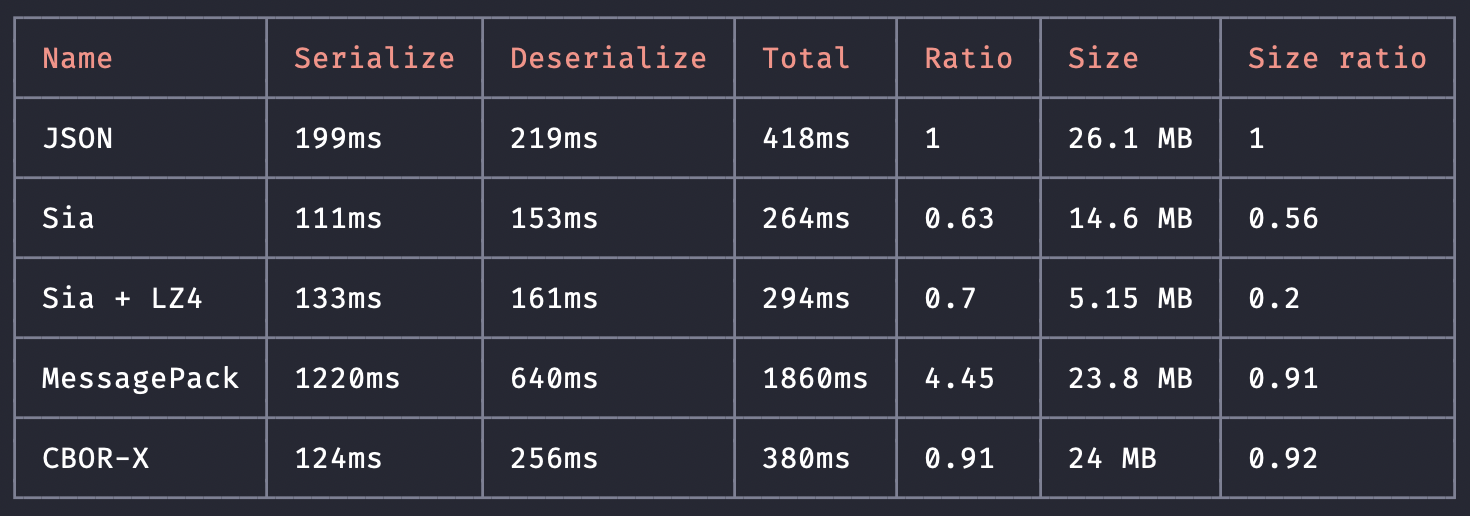
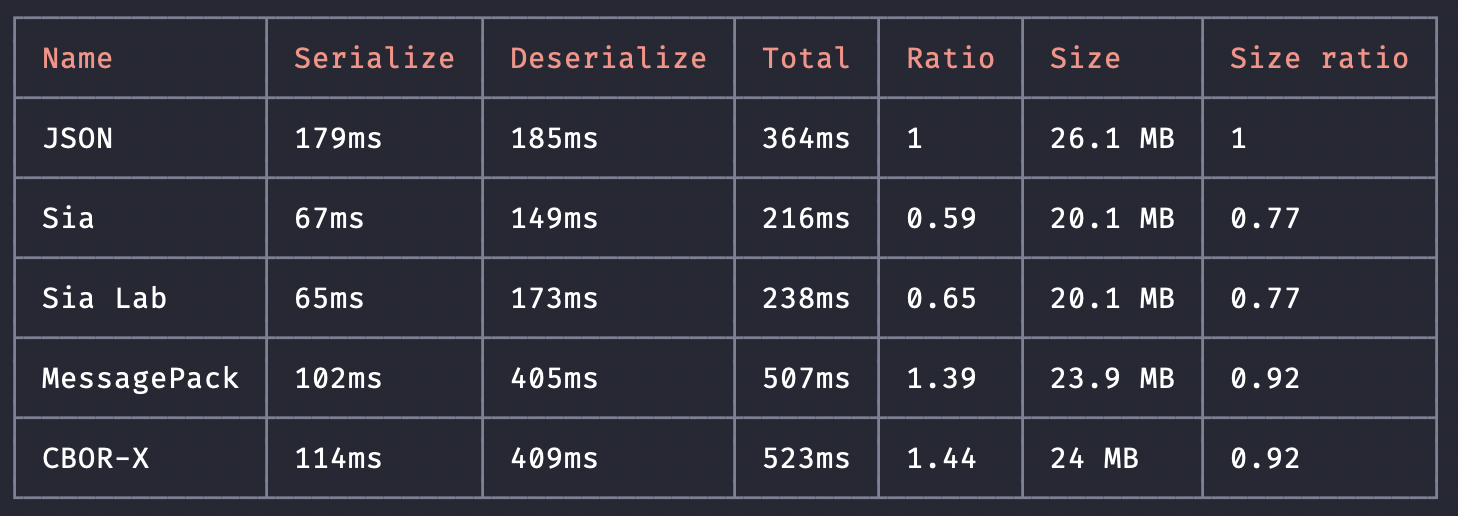
Added docs

diff --git a/README.md b/README.md
@@ -6,6 +6,10 @@
 Sia - Binary serialisation and deserialisation with built-in compression. You can consider Sia a strongly typed,
 statically typed domain specific binary language for constructing data. Sia preserves data types and supports custom ones.
 
+Please note the Sia specification and implementation isn't final yet. As a core part of
+[Clio programming language](https://github.com/clio-lang/clio), Sia evolves with Clio. It is made to make
+fast RPC calls possible.
+
 ## Why
 
 I needed a fast schema-less serialization library that preserves type info and is able to code/decode custom types.
@@ -14,9 +18,10 @@ I created my own.
 
 ## Performance
 
-This repository contains a pure JS implementation of Sia, on our test data we are 30% to 40% faster than JSON
-and serialized data (including type information for all entries) is 50% to 80% smaller than JSON. Sia is faster
-and smaller than MessagePack and CBOR/CBOR-X.
+This repository contains a pure JS implementation of Sia, on our test data Sia is 66% to 1250% faster than JSON
+and serialized data (including type information for all entries) is 10% to 30% smaller than JSON. Sia is faster
+and smaller than MessagePack and CBOR/CBOR-X. It is possible to use lz4 to compress Sia generated data even more
+and still be faster than JSON, MessagePack and CBOR-X.
 
 ![Sia](./fast.png)
 
@@ -33,7 +38,7 @@ Read [specs.md](specs.md).
 To install the Node library and save it as a dependency, do:
 
 ```bash
-npm i -S sia-serializer
+npm i -S sializer
 ```
 
 ## Documentation
@@ -51,3 +56,89 @@ const { sia, desia, Sia, DeSia, constructors } = require("sia-serializer");
 - `Sia(options)` class makes an instance of Sia serializer using the given options.
 - `DeSia(options)` class makes an instance of Sia deserializer using the given options.
 - `constructors` is an array of default constructors used both by Sia and DeSia.
+
+The `Sia` and `DeSia` objects are the core components of the Sia library.
+
+### Basic usage
+
+```JavaScript
+const { sia, desia } = require("sializer");
+
+const buf = sia(data);
+const result = desia(buf);
+```
+
+### Sia class
+
+```JavaScript
+const sia = New Sia({
+  size = 33554432, // Buffer size to use
+  constructors = builtinConstructors // An array of extra classes and types
+});
+
+const buf = sia.serialize(data);
+```
+
+Where `size` is the maximum size of buffer to use, use a big size if you're expecting to
+serialize huge objects. The `constructors` option is an array of extra types and classes,
+it includes instructions for serializing the custom types and classes.
+
+### DeSia class
+
+```JavaScript
+const desia = new DeSia({
+  mapSize = 256 * 1000, // String map size
+  constructors = builtinConstructors, // An array of extra classes and types
+});
+
+const data = desia.deserialize(buf);
+```
+
+Where `mapSize` is the minimum size of string map array to use, use a big size if you're
+expecting to serialize huge objects. The `constructors` option is an array of extra types
+and classes, it includes instructions for deserializing the custom types and classes.
+
+### sia function
+
+```JavaScript
+const buf = sia(data);
+```
+
+The `sia` function is the `Sia.serialize` method on an instance initialized with the default options.
+
+### desia function
+
+```JavaScript
+const data = desia(buf);
+```
+
+The `desia` function is the `DeSia.deserialize` method on an instance initialized with the default options.
+
+### constructors
+
+The `constructors` option is an array of extra types and classes that Sia should support.
+Here's an example of how to use it:
+
+```JavaScript
+const { Sia, DeSia } = require("sializer");
+const { constructors: builtins } = require("sializer");
+
+const constructors = [
+  ...builtins,
+  {
+    constructor: RegExp, // The custom class you want to support
+    code: 7, // A unique positive code point for this class, the smaller the better
+    args: (item) => [item.source, item.flags], // A function to serialize the instances of the class
+    build(source, flags) { // A function for restoring instances of the class
+      return new RegExp(source, flags);
+    },
+  },
+];
+
+const sia = new Sia({ constructors });
+const desia = new DeSia({ constructors });
+
+const regex = /[0-9]+/;
+const buf = sia.serialize(regex); // serialize the data
+const result = desia.deserialize(buf); // deserialize
+```
